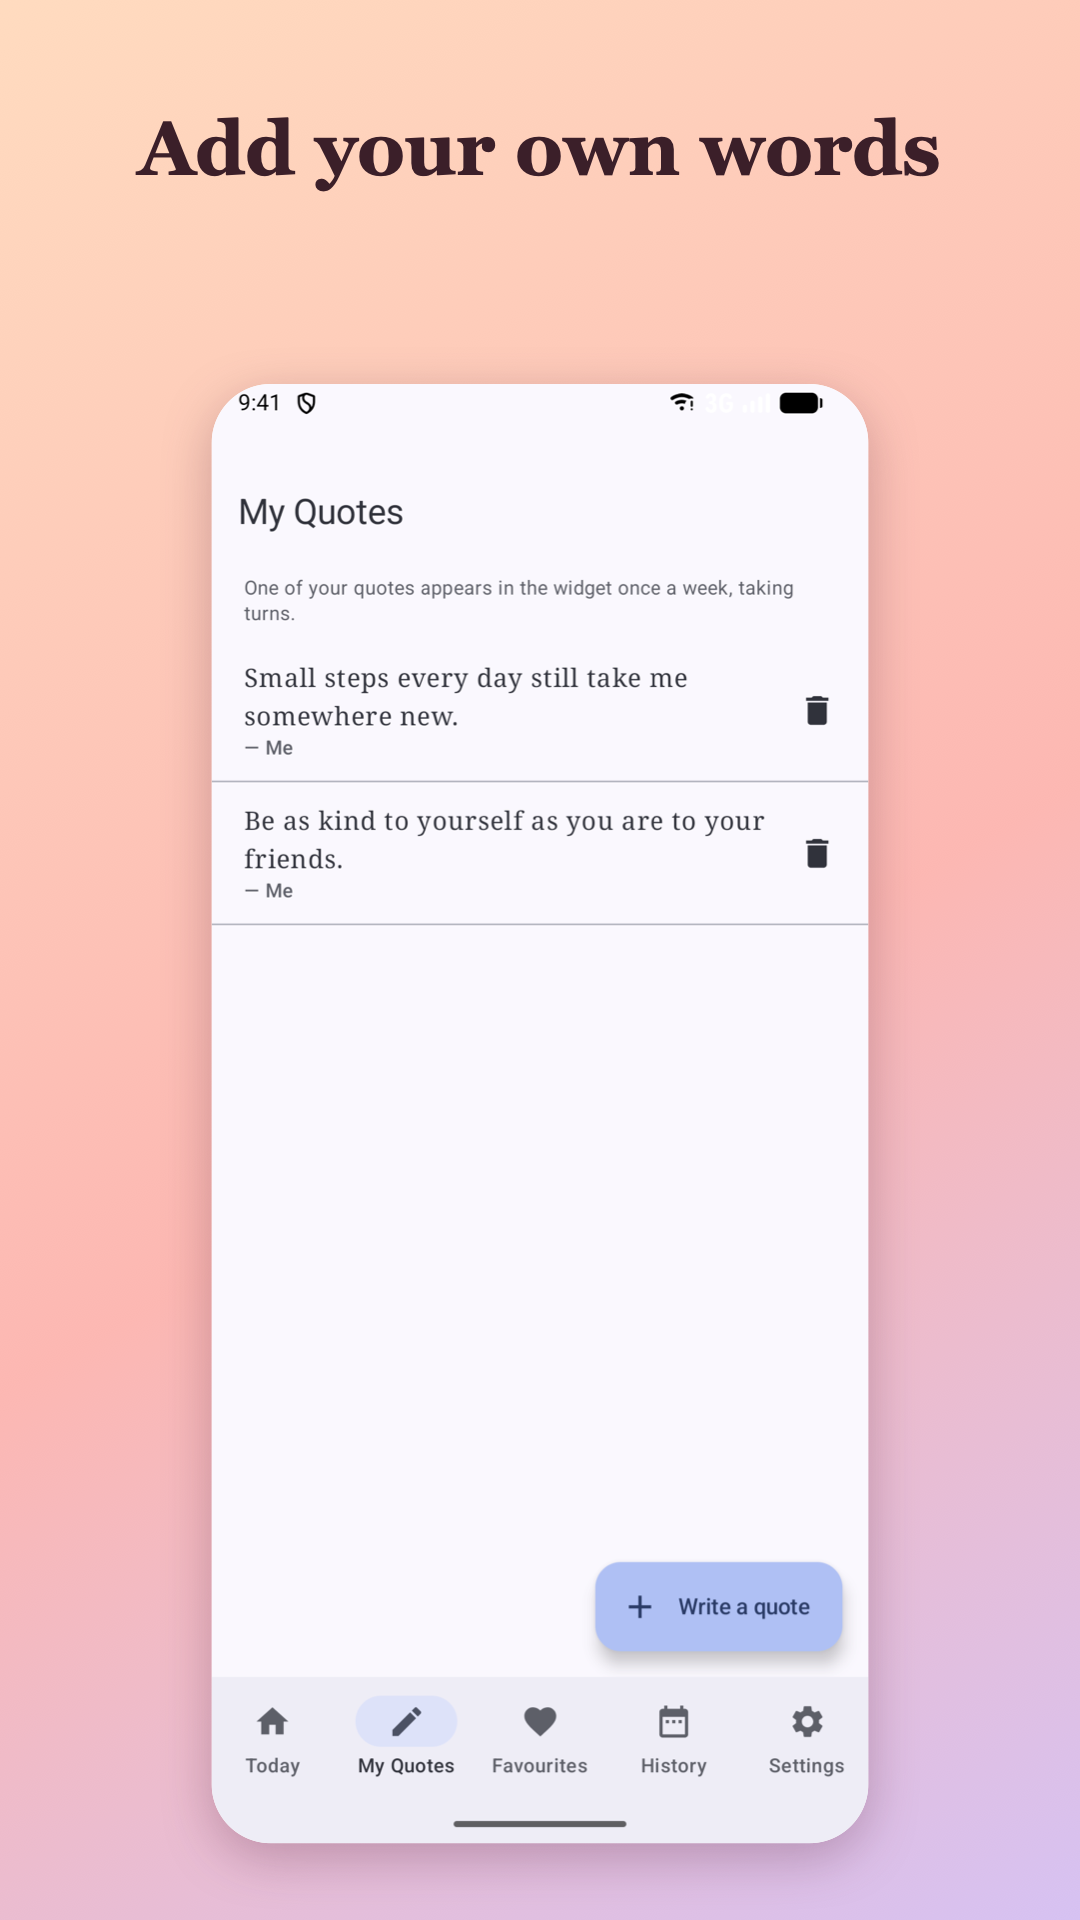
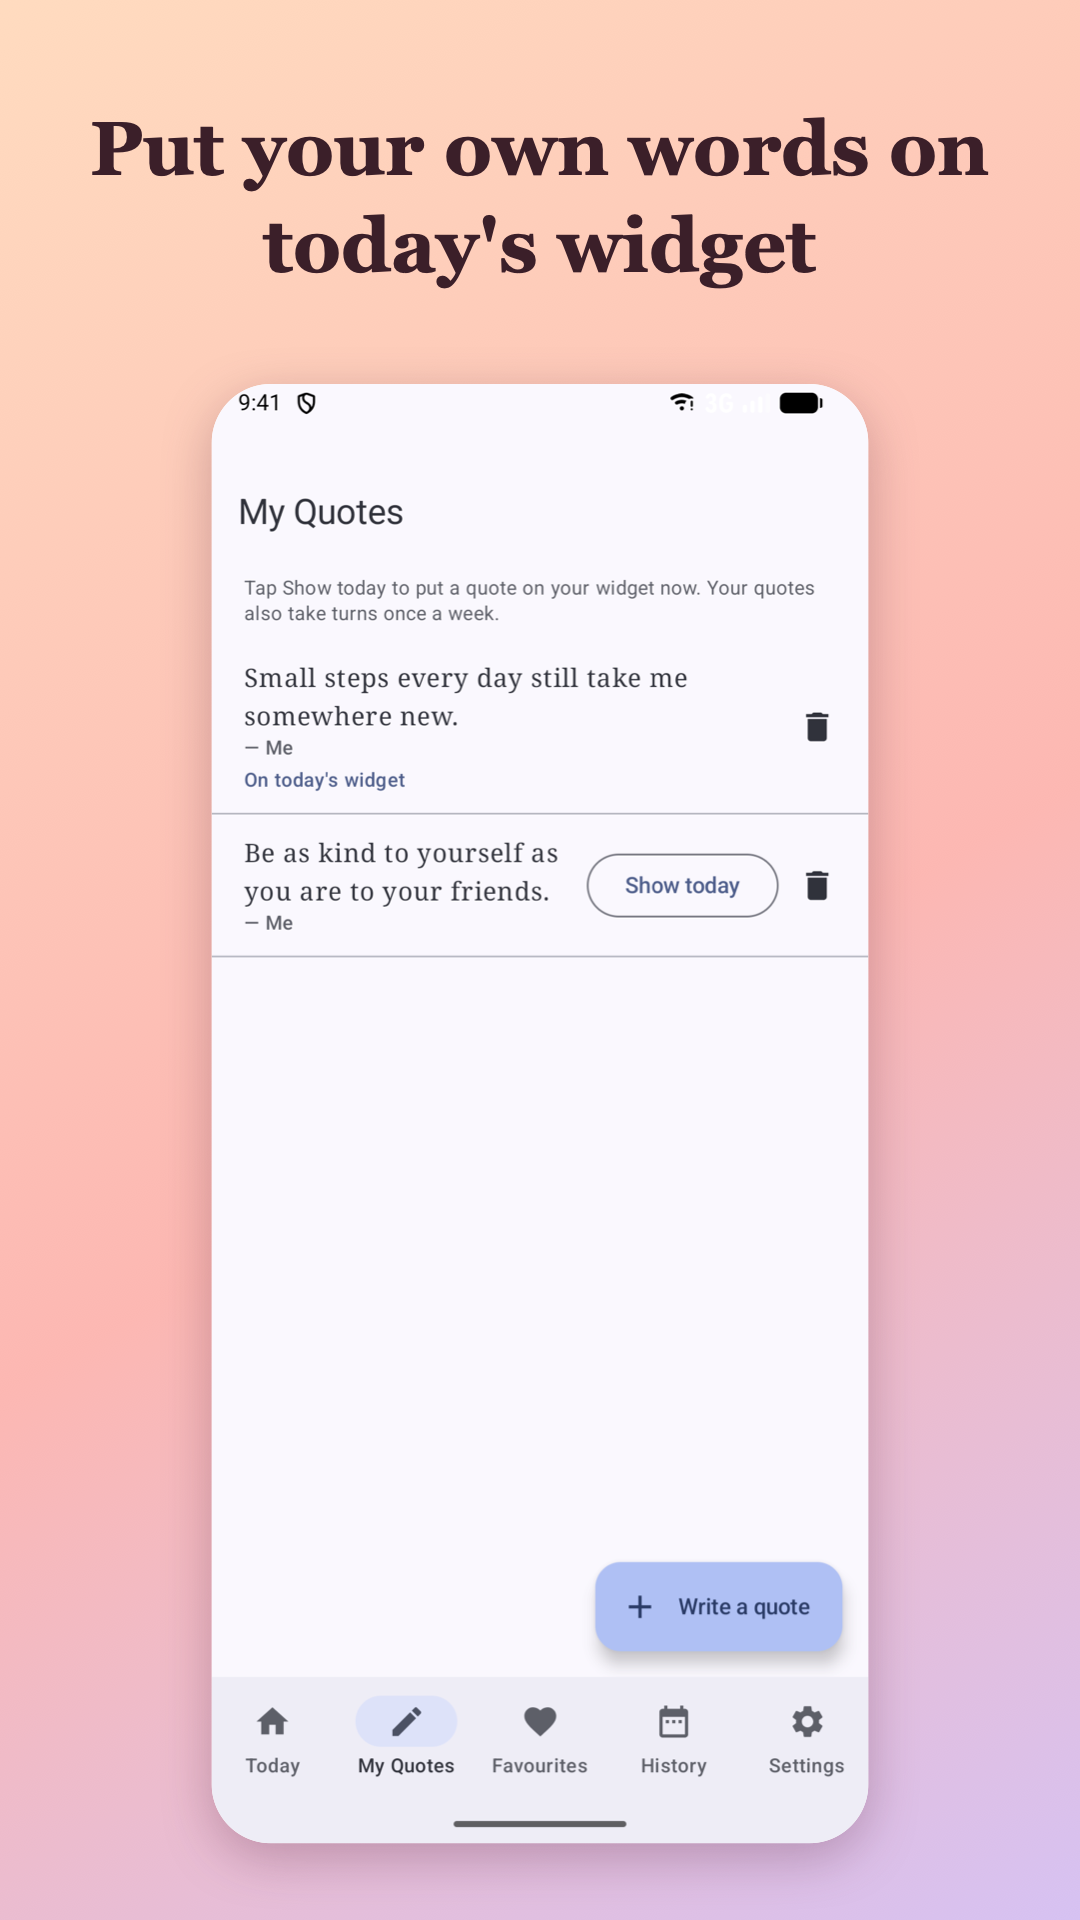
Update store screenshots for widget styles and Show today
Screen 4 now shows the style picker and screen 5 the Show today button.

diff --git a/tools/make_store_images.swift b/tools/make_store_images.swift
@@ -1,7 +1,7 @@
 // Builds Sunnote's store images from raw simulator/emulator screenshots.
 // Usage: swift tools/make_store_images.swift <raw-screenshots-dir> <output-dir>
-// Expects in the raw dir: ios-{home,checkin,today,myquotes,favourites}.png, ios-home-{light,dark}.png,
-// and-{home,checkin,today,myquotes,favourites}.png, and-home-{light,dark}.png, and the icon at
+// Expects in the raw dir: ios-{home,checkin,today,settings,myquotes,favourites}.png,
+// and-{home,checkin,today,settings,myquotes,favourites}.png, and the icon at
 // ios/QuoteApp/Assets.xcassets/AppIcon.appiconset/AppIcon.png (run from the repo root).
 import AppKit
 import CoreGraphics
@@ -81,44 +81,13 @@ func screen(_ raw: String, _ text: String, w: Int, h: Int, out: String) {
     save(ctx, out)
 }
 
-/// Crops a pixel rect given from the image's top-left.
-func crop(_ img: CGImage, x: Int, y: Int, w: Int, h: Int) -> CGImage {
-    img.cropping(to: CGRect(x: x, y: y, width: w, height: h))!
-}
-
-/// Three widget crops (sunrise, light, dark) stacked under a caption, each with its label above it.
-func styles(_ crops: [CGImage], _ text: String, w: Int, h: Int, widthFraction: CGFloat, out: String) {
-    let ctx = canvas(w, h)
-    caption(ctx, text, width: w, height: h, top: CGFloat(h) * 0.055, size: CGFloat(w) * 0.07)
-    let labels = ["Sunrise", "Light", "Dark"]
-    let labelSize = CGFloat(w) * 0.045
-    let font = CTFontCreateWithName("Georgia" as CFString, labelSize, nil)
-    let cw = CGFloat(w) * widthFraction
-    let ch = cw * CGFloat(crops[0].height) / CGFloat(crops[0].width)
-    let top = CGFloat(h) * 0.82, bottom = CGFloat(h) * 0.04       // region below the caption
-    let block = labelSize * 1.9 + ch                                // label + card
-    let gap = max(0, (top - bottom - 3 * block) / 2)
-    for (i, img) in crops.enumerated() {
-        let blockTop = top - CGFloat(i) * (block + gap)
-        let line = CTLineCreateWithAttributedString(NSAttributedString(string: labels[i], attributes: [
-            .font: font, .foregroundColor: NSColor(cgColor: ink)!]))
-        let lw = CTLineGetTypographicBounds(line, nil, nil, nil)
-        ctx.textPosition = CGPoint(x: (CGFloat(w) - CGFloat(lw)) / 2, y: blockTop - labelSize)
-        CTLineDraw(line, ctx)
-        let rect = CGRect(x: (CGFloat(w) - cw) / 2, y: blockTop - block, width: cw, height: ch)
-        place(ctx, img, in: rect, radius: min(cw, ch) * 0.1)
-    }
-    save(ctx, out)
-}
-
 // ---- iPhone 6.9-inch: 1320 x 2868 ----
 let iw = 1320, ih = 2868
 screen("ios-home.png", "A happy little quote, every day", w: iw, h: ih, out: "ios/1-home.png")
 screen("ios-checkin.png", "Tell it how you feel today", w: iw, h: ih, out: "ios/2-check-in.png")
 screen("ios-today.png", "A quote picked for your day", w: iw, h: ih, out: "ios/3-today.png")
-let iSmall = ["ios-home.png", "ios-home-light.png", "ios-home-dark.png"].map { crop(load($0), x: 104, y: 295, w: 510, h: 510) }
-styles(iSmall, "Sunrise, Light or Dark", w: iw, h: ih, widthFraction: 0.40, out: "ios/4-styles.png")
-screen("ios-myquotes.png", "Add your own words", w: iw, h: ih, out: "ios/5-my-quotes.png")
+screen("ios-settings.png", "A style for every wallpaper", w: iw, h: ih, out: "ios/4-styles.png")
+screen("ios-myquotes.png", "Put your own words on today's widget", w: iw, h: ih, out: "ios/5-my-quotes.png")
 screen("ios-favourites.png", "Keep the ones you love", w: iw, h: ih, out: "ios/6-favourites.png")
 
 // ---- Google Play phone: 1080 x 1920 (Play allows at most 2:1) ----
@@ -126,9 +95,8 @@ let aw = 1080, ah = 1920
 screen("and-home.png", "A happy little quote, every day", w: aw, h: ah, out: "android/1-home.png")
 screen("and-checkin.png", "Tell it how you feel today", w: aw, h: ah, out: "android/2-check-in.png")
 screen("and-today.png", "A quote picked for your day", w: aw, h: ah, out: "android/3-today.png")
-let aLarge = ["and-home.png", "and-home-light.png", "and-home-dark.png"].map { crop(load($0), x: 60, y: 398, w: 960, h: 822) }
-styles(aLarge, "Sunrise, Light or Dark", w: aw, h: ah, widthFraction: 0.40, out: "android/4-styles.png")
-screen("and-myquotes.png", "Add your own words", w: aw, h: ah, out: "android/5-my-quotes.png")
+screen("and-settings.png", "A style for every wallpaper", w: aw, h: ah, out: "android/4-styles.png")
+screen("and-myquotes.png", "Put your own words on today's widget", w: aw, h: ah, out: "android/5-my-quotes.png")
 screen("and-favourites.png", "Keep the ones you love", w: aw, h: ah, out: "android/6-favourites.png")
 
 // ---- Google Play feature graphic 1024 x 500 and 512 px icon ----
